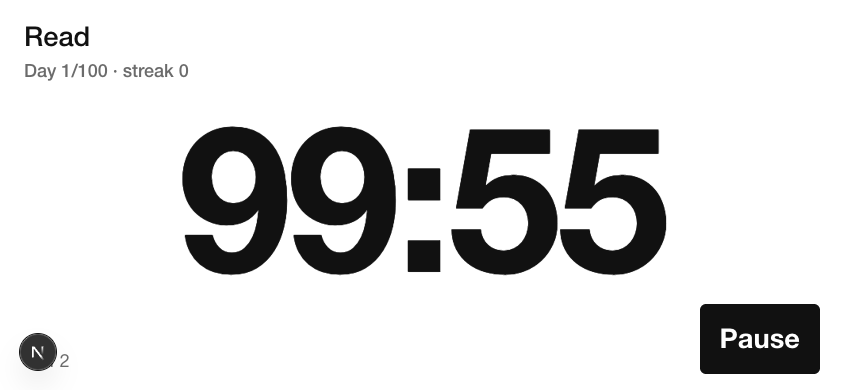
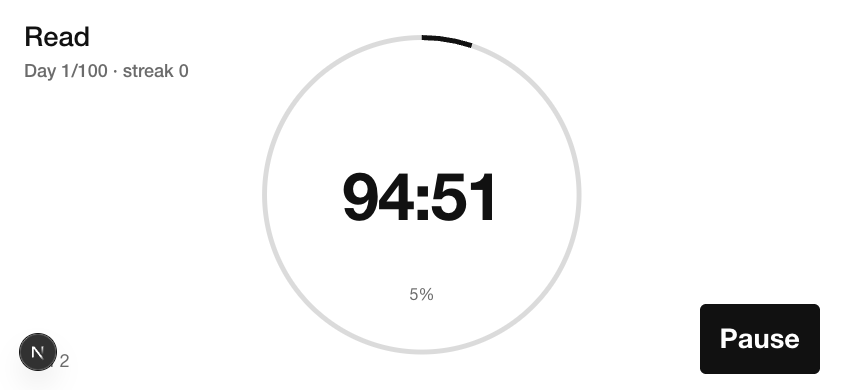
feat(ui): T10 progress ring, 50% beep, settings toggles
Claude-Session: https://claude.ai/code/session_018paPsUNV2Eu2KnptkdKAJW

diff --git a/src/components/daily.tsx b/src/components/daily.tsx
@@ -23,11 +23,43 @@ const clock = (v: number) => {
   return `${v > 6000 ? "+" : ""}${String(Math.floor(r / 60)).padStart(2, "0")}:${String(r % 60).padStart(2, "0")}`;
 };
 
-function beep(ctx: AudioContext) {
-  for (let i = 0; i < 3; i++) {
+// Per-device settings (localStorage, in-memory fallback when storage is blocked).
+const KEY = "r100-settings";
+const subs = new Set<() => void>();
+let mem: string | null = null;
+const readRaw = () => {
+  if (mem === null) {
+    try {
+      mem = localStorage.getItem(KEY) ?? "";
+    } catch {
+      mem = "";
+    }
+  }
+  return mem;
+};
+const subSettings = (cb: () => void) => (subs.add(cb), () => void subs.delete(cb));
+function parseSettings(raw: string) {
+  try {
+    return { ring: true, sounds: true, ...(JSON.parse(raw || "{}") as object) };
+  } catch {
+    return { ring: true, sounds: true };
+  }
+}
+function saveSettings(next: { ring: boolean; sounds: boolean }) {
+  mem = JSON.stringify(next);
+  try {
+    localStorage.setItem(KEY, mem);
+  } catch {
+    // blocked storage: setting lasts until reload
+  }
+  subs.forEach((f) => f());
+}
+
+function beep(ctx: AudioContext, n = 3, freq = 880) {
+  for (let i = 0; i < n; i++) {
     const o = ctx.createOscillator();
     const gain = ctx.createGain();
-    o.frequency.value = 880;
+    o.frequency.value = freq;
     gain.gain.value = 0.2;
     o.connect(gain).connect(ctx.destination);
     const t = ctx.currentTime + i * 0.4;
@@ -52,6 +84,8 @@ export default function Daily({ initial, initialId }: { initial: Goal[]; initial
   const [busy, setBusy] = useState(false);
   const [error, setError] = useState("");
   const landscape = useLandscape();
+  const settings = parseSettings(useSyncExternalStore(subSettings, readRaw, () => ""));
+  const [showSet, setShowSet] = useState(false);
   const queue = useRef<Promise<void>>(Promise.resolve());
   const inflight = useRef(0);
   const swiped = useRef(false);
@@ -132,8 +166,10 @@ export default function Daily({ initial, initialId }: { initial: Goal[]; initial
   useEffect(() => {
     const p = prevVal.current;
     prevVal.current = { id: g.id, v: value };
-    if (g.unit_type === "minutes" && p.id === g.id && p.v < 6000 && value >= 6000 && audio.current) beep(audio.current);
-  }, [g.id, g.unit_type, value]);
+    if (g.unit_type !== "minutes" || p.id !== g.id || !audio.current || !settings.sounds) return;
+    if (p.v < 6000 && value >= 6000) beep(audio.current);
+    else if (p.v < 3000 && value >= 3000) beep(audio.current, 1, 520); // 50%: one lower beep
+  }, [g.id, g.unit_type, value, settings.sounds]);
 
   // Completion pop: only when this goal flips to done while on screen.
   const [prev, setPrev] = useState({ id: g.id, done });
@@ -181,6 +217,38 @@ export default function Daily({ initial, initialId }: { initial: Goal[]; initial
   const state = over ? "Overachieved" : done ? "Complete" : "";
   const shell = `${over ? "over" : ""} bg-background text-foreground`;
   const numeral = `num complete-num font-semibold leading-none ${pop ? "" : "[animation:none]"}`;
+  const pct = Math.floor((value / target(g)) * 100);
+  const ringOn = settings.ring;
+  const ring = (box: string, text: string, tcls: string) => (
+    <div className={`relative grid shrink-0 aspect-square place-items-center ${ringOn ? box : ""}`}>
+      {ringOn && (
+        <svg viewBox="0 0 100 100" className="absolute inset-0 h-full w-full -rotate-90" aria-hidden="true">
+          <circle cx="50" cy="50" r="48" fill="none" stroke="var(--line)" strokeWidth="1.5" />
+          <circle
+            cx="50"
+            cy="50"
+            r="48"
+            fill="none"
+            stroke="currentColor"
+            strokeWidth="1.5"
+            pathLength={100}
+            strokeDasharray={100}
+            strokeDashoffset={100 - Math.min(100, (value / target(g)) * 100)}
+            className="motion-safe:transition-[stroke-dashoffset] motion-safe:duration-500"
+          />
+        </svg>
+      )}
+      <p
+        className={`${numeral} ${text}`}
+        role={count ? undefined : "timer"}
+        aria-live={count ? "polite" : undefined}
+        aria-label={count ? `${value} today` : undefined}
+      >
+        {shown}
+      </p>
+      {ringOn && <p className={`absolute bottom-[16%] ${tcls}`}>{pct}%</p>}
+    </div>
+  );
   const sub = "text-muted text-[clamp(1.125rem,min(3.6vw,3.6vh),1.875rem)]";
 
   if (landscape) {
@@ -204,13 +272,11 @@ export default function Daily({ initial, initialId }: { initial: Goal[]; initial
             Day {g.day_number}/100 · streak {g.streak}
           </span>
         </span>
-        <span
-          className={`${numeral} text-[min(52vh,32vw)]`}
-          role={count ? undefined : "timer"}
-          aria-live={count ? "polite" : undefined}
-        >
-          {shown}
-        </span>
+        {ring(
+          "h-[84vh]",
+          ringOn ? (count ? "text-[26vh]" : "text-[17vh]") : "text-[min(52vh,32vw)]",
+          `${sub} text-[clamp(1rem,4vh,1.5rem)]`,
+        )}
         <span className={`absolute bottom-4 left-6 ${sub}`}>
           {error || state}
           {goals.length > 1 && ` ${idx + 1} of ${goals.length}`}
@@ -271,19 +337,34 @@ export default function Daily({ initial, initialId }: { initial: Goal[]; initial
           <Link href="/new" className="link">
             New goal
           </Link>
+          <button type="button" className="link" aria-expanded={showSet} onClick={() => setShowSet((v) => !v)}>
+            Settings
+          </button>
           <SignOut />
         </nav>
       </header>
+      {showSet && (
+        <div className="mt-3 flex flex-col border border-line px-4">
+          {(["ring", "sounds"] as const).map((k) => (
+            <label key={k} className="flex min-h-11 items-center justify-between gap-4">
+              {k === "ring" ? "Progress ring" : "Sounds"}
+              <input
+                type="checkbox"
+                className="size-6 accent-foreground"
+                checked={settings[k]}
+                onChange={(e) => saveSettings({ ...settings, [k]: e.target.checked })}
+              />
+            </label>
+          ))}
+        </div>
+      )}
       <section className="flex flex-1 flex-col items-center justify-center gap-4 text-center">
         <div className="flex w-full items-center justify-center gap-4">
-          <p
-            className={`${numeral} ${count ? "text-[clamp(5rem,30vw,14rem)]" : "text-[clamp(4rem,22vw,10rem)]"}`}
-            role={count ? undefined : "timer"}
-            aria-live={count ? "polite" : undefined}
-            aria-label={count ? `${value} today` : undefined}
-          >
-            {shown}
-          </p>
+          {ring(
+            count ? "w-[46vw]" : "w-[50vw]",
+            ringOn ? (count ? "text-[clamp(3rem,20vw,8rem)]" : "text-[clamp(2.25rem,12vw,5rem)]") : count ? "text-[clamp(5rem,30vw,14rem)]" : "text-[clamp(4rem,22vw,10rem)]",
+            `${sub} text-[clamp(0.875rem,3.4vw,1.25rem)]`,
+          )}
           {count ? (
             <button type="button" onClick={tap} aria-label="Add one" className={`${big} min-w-[34vw] px-4 text-[clamp(2.5rem,12vw,5rem)]`}>
               +1

diff --git a/docs/tareas/R100-T10.md b/docs/tareas/R100-T10.md
@@ -15,6 +15,10 @@ Owner feedback after using production. UI only; DB and RPCs unchanged.
 - Timer goals: a visible Pause button next to the time, shown only while running. The big bottom button is Start (once a day) or Resume and is hidden while running. Landscape shows one visible Start/Pause/Resume button bottom-right.
 - Timer shows a countdown: remaining = max(0, 6000 - elapsed) as `MM:SS`. Past 0 it shows `+MM:SS` counting up in the inverted overachieved state (same as count > 100). Exactly 0 is "Complete".
 - At 0 (crossing while the screen is open) three 880 Hz beeps via Web Audio (oscillator, no files, no deps).
+- Progress ring: thin SVG ring around the number on count and timer, portrait and landscape, filling clockwise (count value/100, timer elapsed/6000) with a small % under the number. Stays full above 100% and inverts with the overachieved state; no transition under `prefers-reduced-motion`. With the ring on, the numerals are smaller so they fit inside it.
+- 50% sound: timer only, one 520 Hz beep when crossing 50:00 remaining on screen (the 0 sequence is three 880 Hz beeps). Same AudioContext and same silent-if-already-past-on-load rule.
+- Settings (portrait nav): "Progress ring" and "Sounds" toggles, both on by default, saved in `localStorage` per device with try/catch and an in-memory fallback when storage is blocked. Landscape reads the same settings.
+- No auto-stop at 0 and no server timer change (owner is deciding separately).
 - All secondary text (action, Day X/100, streak, nav, labels, buttons) uses fluid `clamp()` sizes in portrait and landscape.
 - Login: "Continue with Google" (`signInWithOAuth`, `redirectTo` = `/auth/callback`). Provider errors show inline until the owner enables it. `/auth/callback` already calls `exchangeCodeForSession(code)`, the same PKCE flow as the magic link, so no change there.
 - `.gitignore`: `.playwright-mcp/`.
